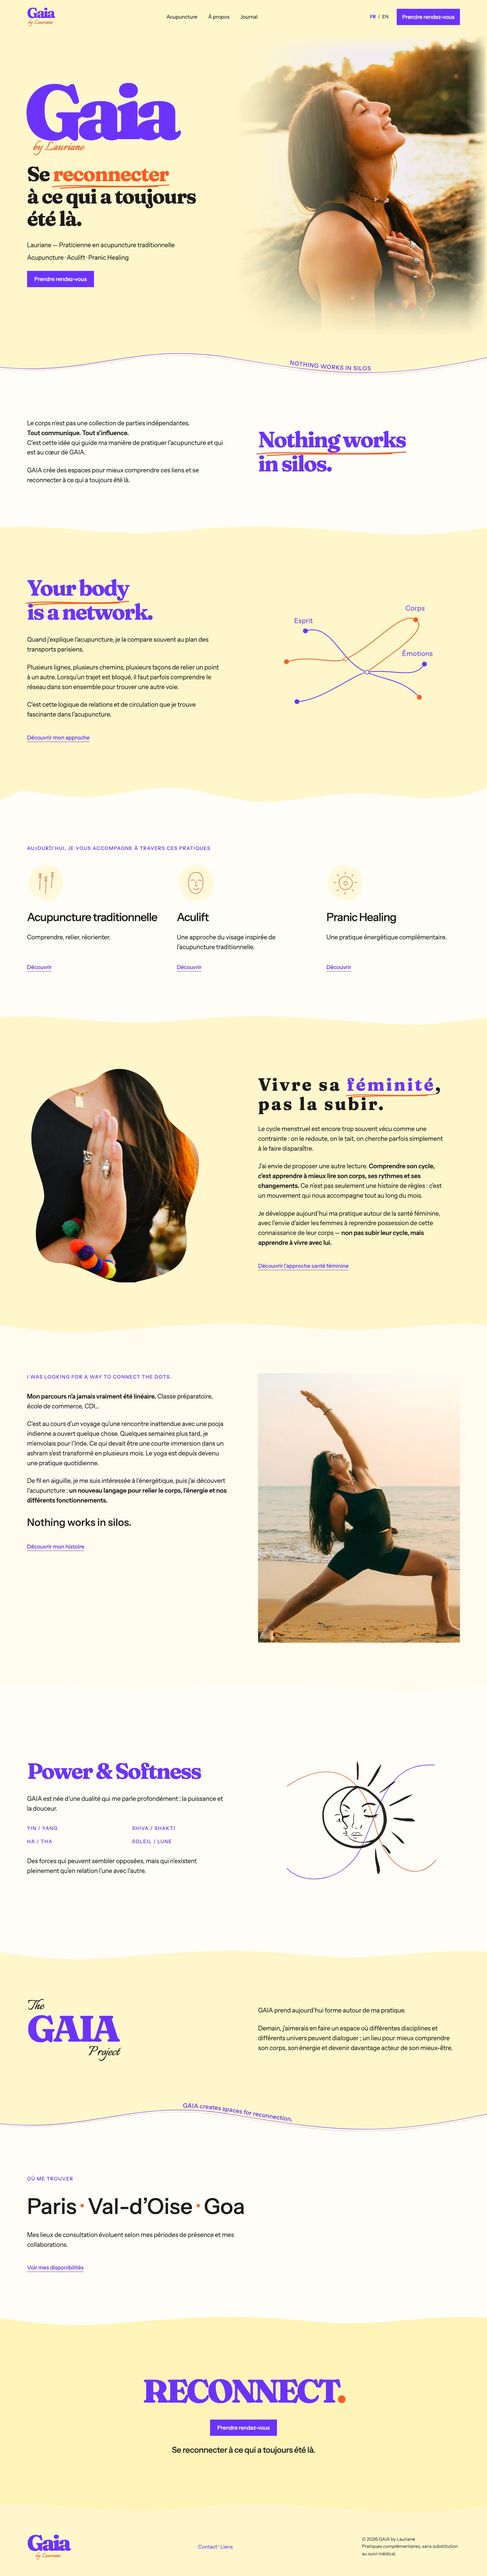
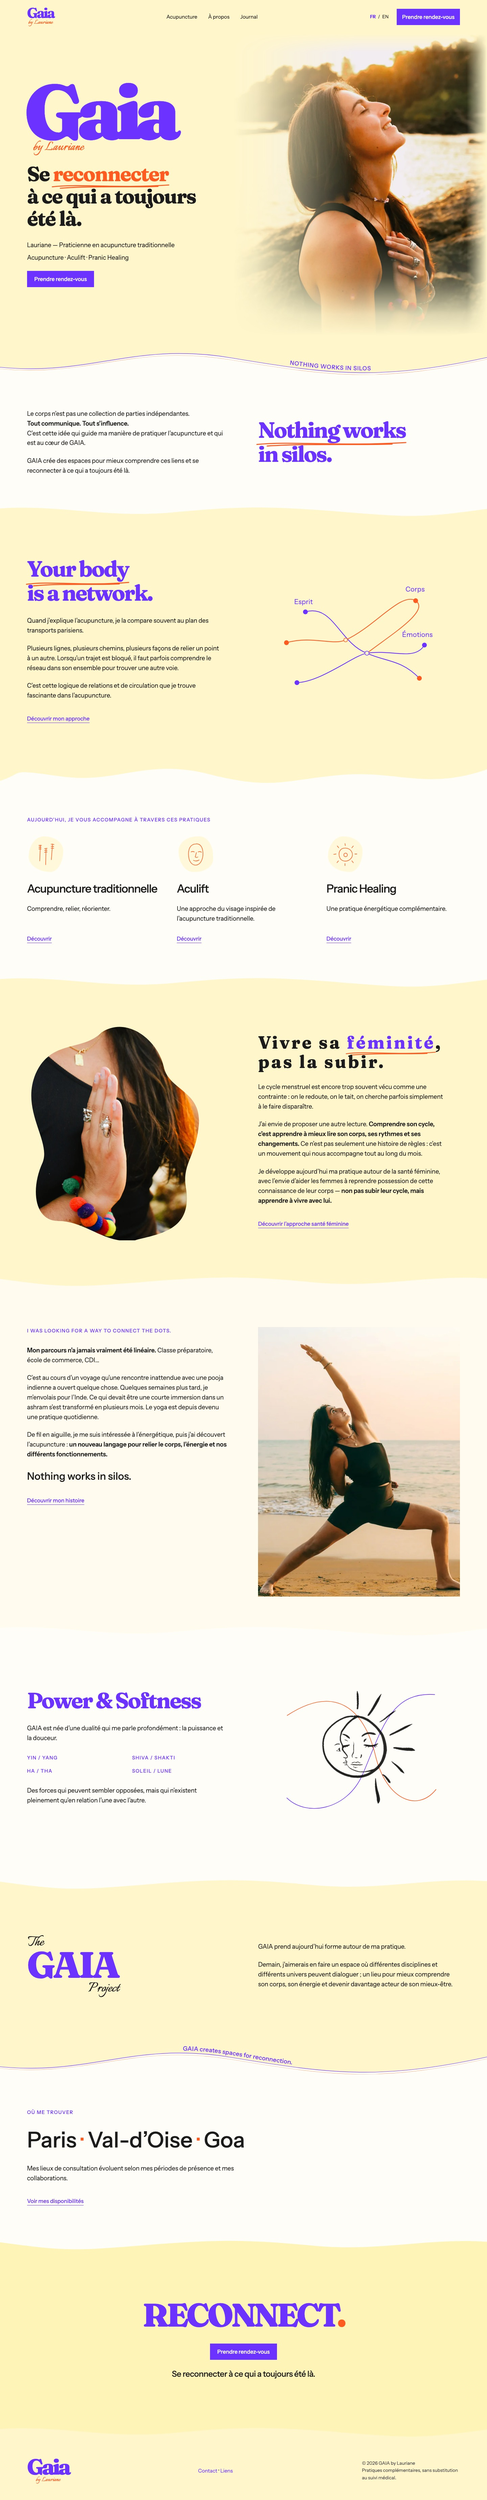
Update Site source

diff --git a/src/styles/home-system.css b/src/styles/home-system.css
@@ -9,7 +9,7 @@ body.gaia-home-shell{
 }
 .gaia-home{--art-section:var(--home-section);--gaia-feature-title:var(--home-display)}
 .gaia-home-shell .header,.gaia-home-shell footer,.gaia-home .section{padding-left:var(--gutter);padding-right:var(--gutter)}
-.gaia-home .section,.gaia-home .about,.gaia-home .project{padding-top:var(--home-section);padding-bottom:var(--home-section)}
+.gaia-home .section,.gaia-home .about,.gaia-home .project{padding-top:var(--section-top,var(--home-section));padding-bottom:var(--section-bottom,var(--home-section))}
 .gaia-home p{font-family:var(--sans);font-size:var(--home-body);line-height:1.6;max-width:60ch;margin:0 0 var(--space-3);letter-spacing:normal}
 .gaia-home .eyebrow{font-size:var(--home-label);font-weight:500;letter-spacing:.1em;line-height:1.55;margin-bottom:var(--space-4);max-width:none}
 .gaia-home .manifesto,.gaia-home .network,.gaia-home .women,.gaia-home .power,.gaia-home .project{grid-template-columns:repeat(2,minmax(0,1fr));gap:var(--home-gap)}
@@ -99,3 +99,24 @@ body.gaia-home-shell{
 .gaia-home .manifesto>.eyebrow,.gaia-home .network-title,.gaia-home .women-title,.gaia-home .power .eyebrow{font-weight:700;font-variation-settings:'wght' 700,'SOFT' 70,'WONK' 1}
 .gaia-home p strong{font-family:inherit;font-weight:600;color:inherit}
 .gaia-home .story-statement{font-family:var(--sans)}
+
+/* Content-weighted vertical rhythm; network and closing space stay unchanged. */
+.gaia-home .manifesto,.gaia-home .practices,.gaia-home .locations{--section-top:80px;--section-bottom:80px}
+.gaia-home .women{--section-top:96px;--section-bottom:96px}
+.gaia-home .about{--section-bottom:76px}
+.gaia-home .power{--section-top:68px}
+.gaia-home .project{--section-top:128px;--section-bottom:128px}
+@media(max-width:1100px){
+ .gaia-home .manifesto,.gaia-home .practices,.gaia-home .locations{--section-top:64px;--section-bottom:64px}
+ .gaia-home .women{--section-top:80px;--section-bottom:80px}
+ .gaia-home .about{--section-bottom:64px}
+ .gaia-home .power{--section-top:56px}
+ .gaia-home .project{--section-top:96px;--section-bottom:96px}
+}
+@media(max-width:700px){
+ .gaia-home .manifesto,.gaia-home .practices,.gaia-home .locations{--section-top:48px;--section-bottom:48px}
+ .gaia-home .women{--section-top:64px;--section-bottom:64px}
+ .gaia-home .about{--section-bottom:48px}
+ .gaia-home .power{--section-top:40px}
+ .gaia-home .project{--section-top:72px;--section-bottom:72px}
+}
